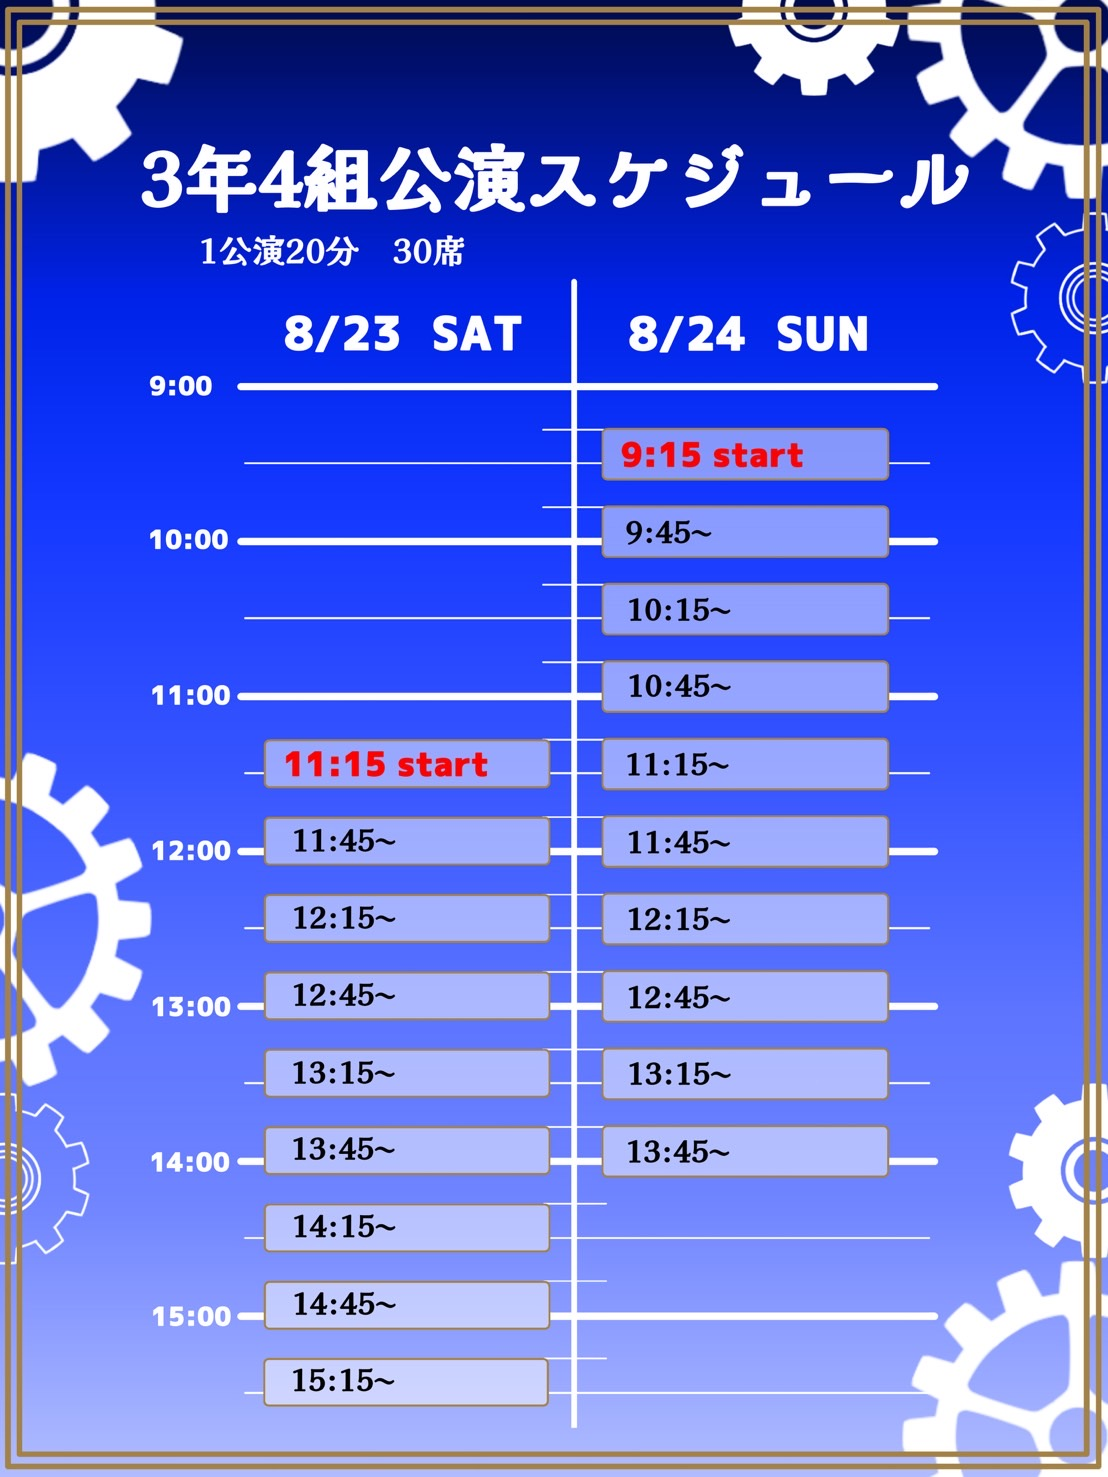
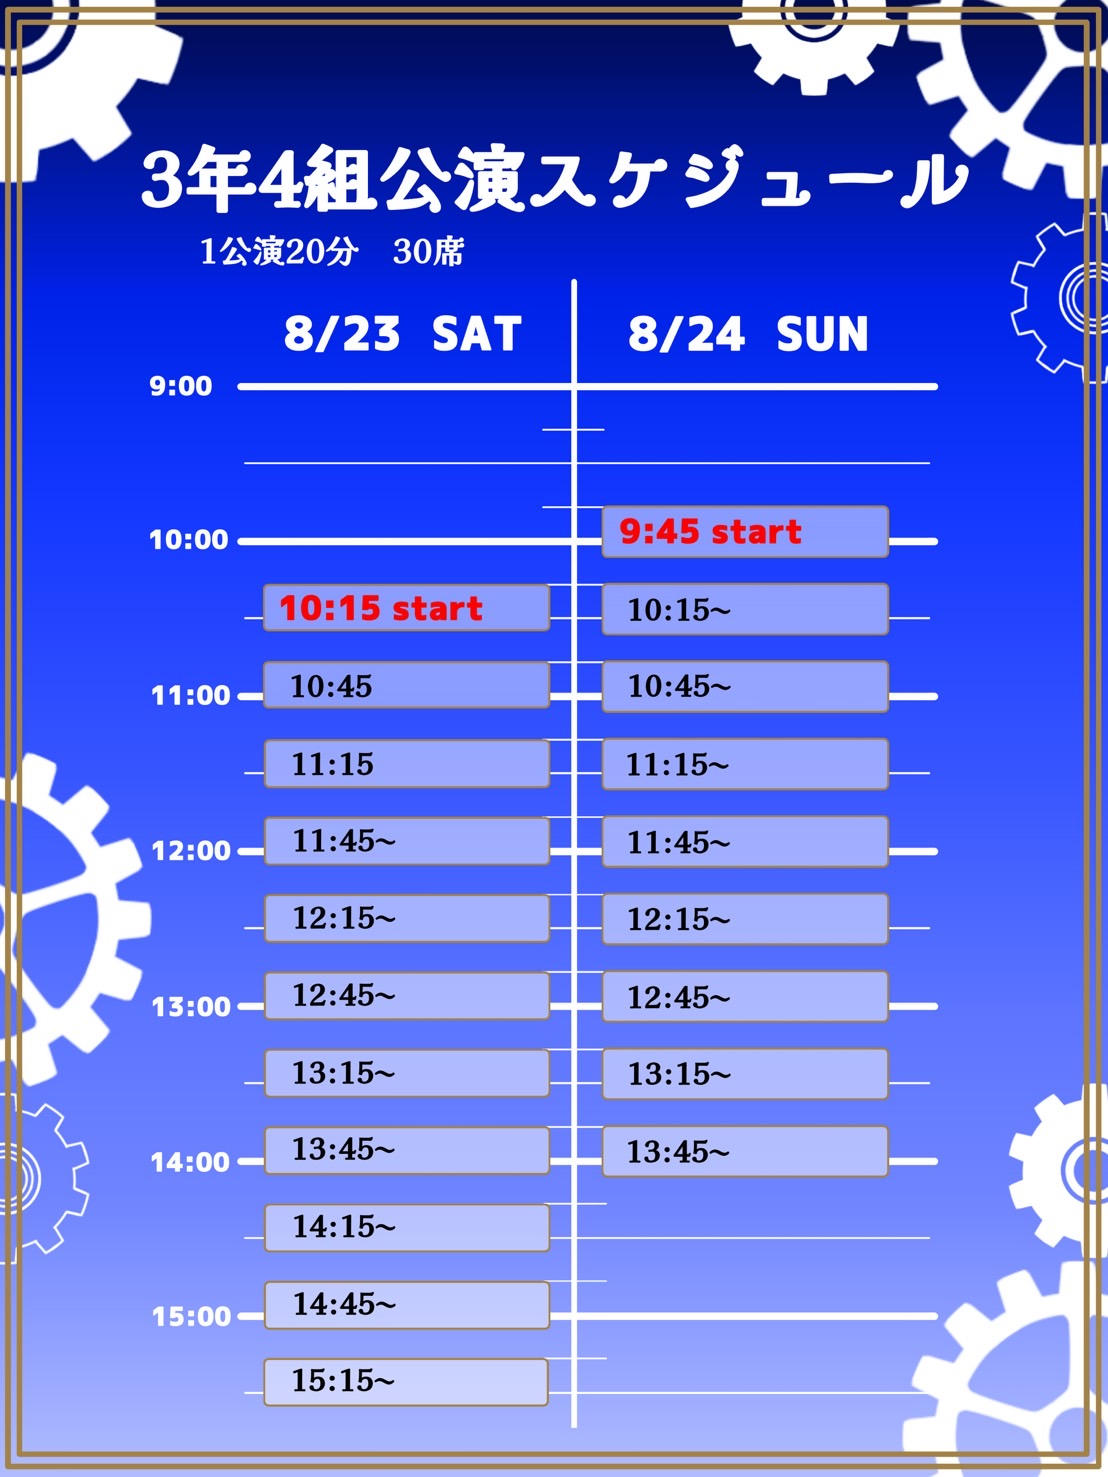
コンテンツ更新

Changed region(s): [[0.2148, 0.3737, 0.5217, 0.5295], [0.5217, 0.2803, 0.8285, 0.3737]]

diff --git a/app/projects/_data.js b/app/projects/_data.js
@@ -33,7 +33,7 @@ const datas = [
     description: "書道部員が3m×5mもの大きな紙の上で書のパフォーマンスを披露します!"
   },
   {
-    icon: "/icons/99.png",
+    icon: "/icons/4.png",
     place: "1体ステージ",
     tags: [
       { color: "blue", text: "管弦楽" },
@@ -41,10 +41,11 @@ const datas = [
     ],
     title: "梅響",
     organization: "梅響",
-    description: ""
+    description: "",
+    modalDescription: <img src="IMG_5684.jpg" />
   },
   {
-    icon: "/icons/99.png",
+    icon: "/icons/5.png",
     place: "1体ステージ",
     tags: [
       { color: "blue", text: "吹奏楽" },
@@ -52,10 +53,10 @@ const datas = [
     ],
     title: "有志吹奏楽団",
     organization: "",
-    description: ""
+    description: "私たち有志吹奏楽団は、部活動の壁を越えて吹奏楽を愛する人が集まった楽団です！メンバー全員が集まれるタイミングが少なく、練習時間の確保が難しい中での本番にはなりますが、皆さまの心に残る演奏をいたします！是非お越しください！"
   },
   {
-    icon: "/icons/99.png",
+    icon: "/icons/6.png",
     place: "1体ステージ",
     tags: [
       { color: "blue", text: "漫才" },
@@ -63,7 +64,7 @@ const datas = [
     ],
     title: "オテンキボックス",
     organization: "",
-    description: ""
+    description: "漫才をします"
   },
   {
     icon: "/icons/99.png",
@@ -77,7 +78,7 @@ const datas = [
     description: ""
   },
   {
-    icon: "/icons/99.png",
+    icon: "/icons/8.png",
     place: "1体ステージ",
     tags: [
       { color: "blue", text: "ピアノ連弾" },
@@ -88,7 +89,7 @@ const datas = [
     description: ""
   },
   {
-    icon: "/icons/99.png",
+    icon: "/icons/9.png",
     place: "1体ステージ",
     tags: [
       { color: "blue", text: "有志" },
@@ -143,7 +144,7 @@ const datas = [
     description: ""
   },
   {
-    icon: "/icons/99.png",
+    icon: "/icons/14.png",
     place: "1体ステージ",
     tags: [
       { color: "blue", text: "バンド" },
@@ -151,10 +152,17 @@ const datas = [
     ],
     title: "Lemo/nade",
     organization: "",
-    description: ""
+    description: "幼馴染でも、ガールズバンドでも、4人組でもありません。なんならメンバーの半分はプロセカ未履修です。そんなバンド、Lemo/nade🍋です。ボカロが好きな方は是非足をお運びください！",
+    modalDescription: <>
+      <p>
+        幼馴染でも、ガールズバンドでも、4人組でもありません。なんならメンバーの半分はプロセカ未履修です。そんなバンド、Lemo/nade🍋です。<br />
+        ボカロが好きな方は是非足をお運びください！
+      </p>
+      <img src="Lemo_nade 宣伝画像.JPG" />
+    </>
   },
   {
-    icon: "/icons/99.png",
+    icon: "/icons/15.png",
     place: "1体ステージ",
     tags: [
       { color: "blue", text: "ジャズ演奏" },
@@ -162,10 +170,10 @@ const datas = [
     ],
     title: "ジャズ研究部",
     organization: "ジャズ研究部",
-    description: ""
+    description: "一度は聞いたことがあるあの曲たちをジャズ研究部がお届けします！ぜひご覧ください。"
   },
   {
-    icon: "/icons/99.png",
+    icon: "/icons/16.png",
     place: "1体ステージ",
     tags: [
       { color: "blue", text: "バンド" },
@@ -173,7 +181,7 @@ const datas = [
     ],
     title: "やりますバンド",
     organization: "",
-    description: ""
+    description: "バンドやります"
   },
   {
     icon: "/icons/17.png",
@@ -188,7 +196,7 @@ const datas = [
     timeDescription: ""
   },
   {
-    icon: "/icons/99.png",
+    icon: "/icons/18.png",
     place: "1体ステージ",
     tags: [
       { color: "blue", text: "バンド" },
@@ -196,7 +204,7 @@ const datas = [
     ],
     title: "鉄血宰相(仮)",
     organization: "",
-    description: ""
+    description: "鉄血宰相(仮)です！メタルバンドではありません！"
   },
   {
     icon: "/icons/99.png",
@@ -221,7 +229,7 @@ const datas = [
     description: ""
   },
   {
-    icon: "/icons/99.png",
+    icon: "/icons/21.png",
     place: "1体ステージ",
     tags: [
       { color: "blue", text: "歌唱" },
@@ -229,7 +237,7 @@ const datas = [
     ],
     title: "遠藤由深歌います♪",
     organization: "",
-    description: ""
+    description: "優里さんのドライフラワーや平井堅さんのノンフィクションを歌います！梅苑祭2日目の8月24日第1体育館13:35から始まります！ぜひお越しください！"
   },
   {
     icon: "/icons/22.png",
@@ -473,7 +481,8 @@ const datas = [
     ],
     title: "山猫軒 〜注文だらけの晩餐会〜",
     organization: "",
-    description: ``
+    description: ``,
+    timeDescription: <img src='3-1table.jpg' />
   },
   {
     icon: "/icons/3-2.JPG",
@@ -495,7 +504,8 @@ STARWARS episode3-2 〜月の使者と金髪の悪魔〜
       STARWARS episode3-2 〜月の使者と金髪の悪魔〜<br />
 
       ※この劇では光の点滅や大きな音などの演出がございます。
-    </p>
+    </p>,
+    timeDescription: <img src='3-2table.jpg' />
   },
   {
     icon: "/icons/3-3.JPG",
@@ -506,7 +516,8 @@ STARWARS episode3-2 〜月の使者と金髪の悪魔〜
     ],
     title: "伝説の剣、抜けました。",
     organization: "",
-    description: ""
+    description: "",
+    timeDescription: <img src='3-3table.jpg' />
   },
   {
     icon: "/icons/3-4.JPG",
@@ -518,12 +529,18 @@ STARWARS episode3-2 〜月の使者と金髪の悪魔〜
     title: "出撃 H.O.P.E.",
     organization: "",
     description: `3-4ロボット劇『出撃 H.O.P.E.』
-少年少女がロボットを駆使し平和を脅かす敵に立ち向かっていくSFアクション！！
-完全オリジナルの脚本をお楽しみください
+平和な世界で平凡な日常を送る高校生、ユーリ。そんな彼の元に現れたのは、自らを未来から来たと言うAI、エインヘリアルだった。
+「あなたには世界を変えてもらわなければなりません。」
+そう告げるエインヘリアルに戸惑う主人公だったが、為す術もなく巻き込まれ連れていかれた先には、一機の巨大なロボットがあった……
+
+ロボットを駆使し戦う高校生を描いた完全オリジナルストーリー！是非ご覧下さい
 `,
     modalDescription: <p>3-4ロボット劇『出撃 H.O.P.E.』<br />
-      少年少女がロボットを駆使し平和を脅かす敵に立ち向かっていくSFアクション！！<br />
-      完全オリジナルの脚本をお楽しみください
+      平和な世界で平凡な日常を送る高校生、ユーリ。そんな彼の元に現れたのは、自らを未来から来たと言うAI、エインヘリアルだった。<br />
+      「あなたには世界を変えてもらわなければなりません。」<br />
+      そう告げるエインヘリアルに戸惑う主人公だったが、為す術もなく巻き込まれ連れていかれた先には、一機の巨大なロボットがあった……<br />
+      <br />
+      ロボットを駆使し戦う高校生を描いた完全オリジナルストーリー！是非ご覧下さい
     </p>,
     timeDescription: <img src='3-4table.jpg' />
   },
@@ -536,7 +553,8 @@ STARWARS episode3-2 〜月の使者と金髪の悪魔〜
     ],
     title: "カイジ 〜運命の一手〜",
     organization: "",
-    description: ""
+    description: "",
+    timeDescription: <img src='3-5table.jpg' />
   },
   {
     icon: "/icons/3-6.JPG",
